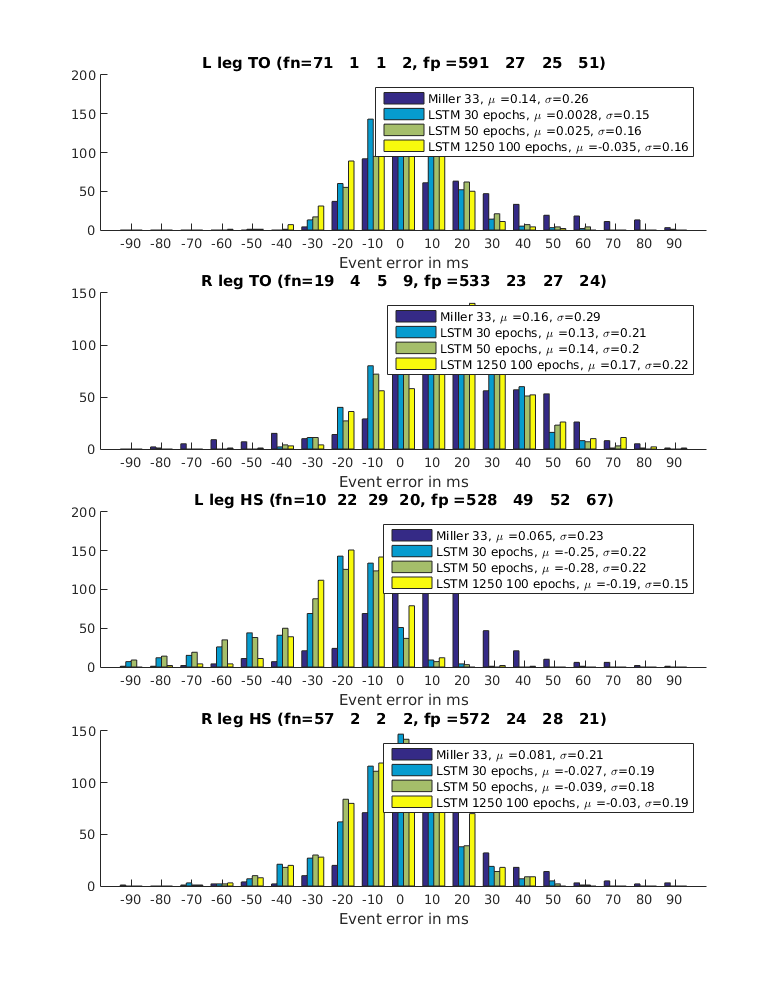
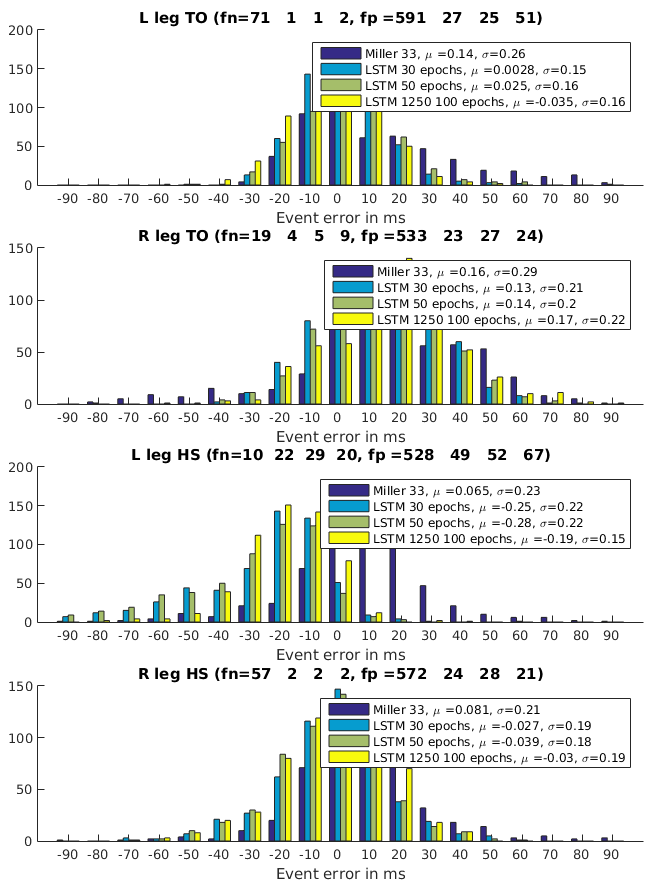
Added figure 3

diff --git a/paper/paper.tex b/paper/paper.tex
@@ -364,9 +364,21 @@ Once we settled on parameters for our network, we trained it for 100 epochs and 
 
 \begin{figure}[H]
  \centering
- \includegraphics[scale=.35]{./figures/Test1_1Train1_2Compare.png}
+ \includegraphics[scale=.3]{./figures/Test1_1Train1_2Compare.png}
  % Test1_1Train1_2Compare.png: 0x0 pixel, 300dpi, 0.00x0.00 cm, bb=
  \caption{Comparison of Miller vs. LSTM network for various training intervals, for dataset 1.}
+ \label{fig:halfAndHalfTrials}
+\end{figure}
+
+\subsection{Dataset 2}
+The second dataset was designed to assess how well the methods generalize to new users. We performed the same treatment as for the previous dataset. 
+
+
+\begin{figure}[H]
+ \centering
+ \includegraphics[scale=.4]{./figures/Test2_2Train2_1Compare.png}
+ % Test1_1Train1_2Compare.png: 0x0 pixel, 300dpi, 0.00x0.00 cm, bb=
+ \caption{Comparison of Miller vs. LSTM network for various training intervals, for dataset 2.}
  \label{fig:halfAndHalfTrials}
 \end{figure}
 
